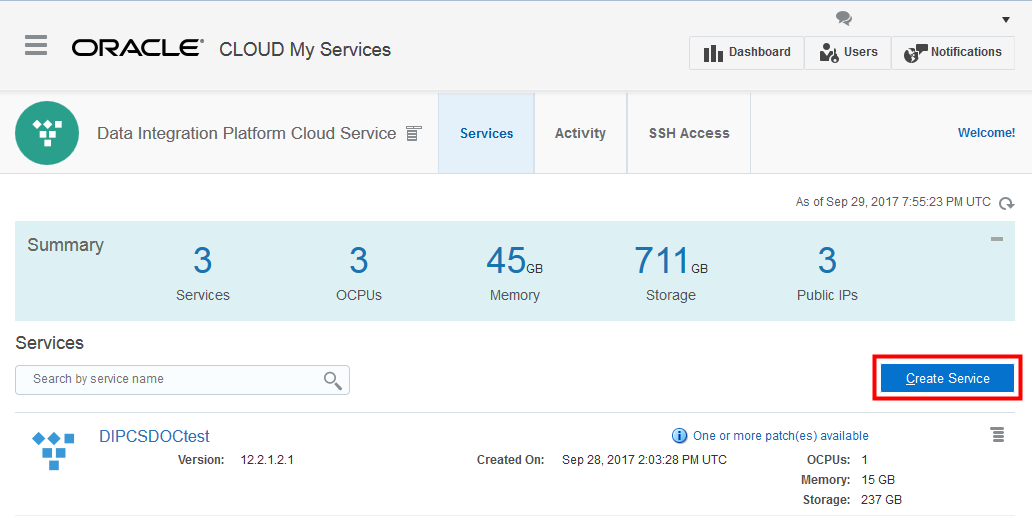
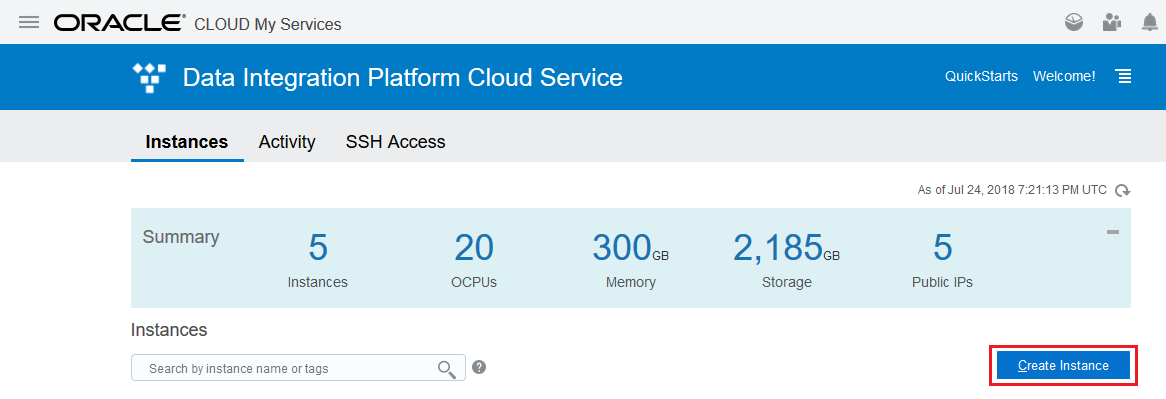
Rev Lab100

diff --git a/workshops/dipc/CloudWorkshop_DIPC_100.md b/workshops/dipc/CloudWorkshop_DIPC_100.md
@@ -24,15 +24,15 @@ For Data Integration Platform Cloud, you can select one of the following edition
 Your Oracle Cloud user name, password, and identity domain, which you should have received from Oracle
 
 -  An Oracle Cloud subscription with the following services:
-     1. Data Integration Platform Cloud Service
-     2. Database Cloud Service
-     3. Compute Classic Cloud Service
-     4. Storage Cloud Service
+    1. Data Integration Platform Cloud Service
+    2. Database Cloud Service
+    3. Compute Classic Cloud Service
+    4. Storage Cloud Service
 -  Cloud Dashboard URL
 -  Cloud Dashboard login credentials:
-     1. identity domain / account
-     2. username
-     3. password
+    1. identity domain / account
+    2. username
+    3. password
 
 -   Private keys in OpenSSH format for all instances 
 -   Public IP address for each workshop service instance
@@ -53,85 +53,78 @@ The above cloud services will be used to create:
 ## Logging Into Oracle Cloud Instance
 
 1. In your web browser, navigate to cloud.oracle.com, then click Sign in.
-2. Enter your user name and password, then click Sign In.
+2. Provide the cloud account: oscnas001 then <Enter>
+3. Provide your user name and password, then click Sign In.
 
 ![](images/100/image100_1.png)
 
-Click Services or Go to Console to access My Oracle Services.
+Click Services or Go to Dashboard to access My Oracle Services.
 
 ## Creating an Oracle Database Cloud Instance
 
-1. Locate Database in your list of services, then select Open Service Console from the Action menu.
+1. Locate Database in your list of services, then select "Open Service Console" from the Action menu.
 
 ![](images/100/image100_2.png)
 
-2. On the Services page, click Create Service. This launches the Create DBC instance wizard.
+2. On the Services page, click "Create Instance" button. This launches the Create DBC instance wizard.
 
 ![](images/100/image100_3.png)
 
-3. Complete the Service form as follows and then click Next:
-
-- Service Name: DBCSABC
-
-- Description: ABC Replication Database for Data Integration Platform Cloud
-
-- Notification Email: (a valid email address to receive provisioning status)
-
-- Region: No Preference
-
-- Software Release: Oracle Database 12c Release 1
-
-- Software Edition: Enterprise Edition
-
-- Database Type: Single Instance
+3. Complete the Service form as follows and then click "Next" button:
+    -  Instance Name: DBCSABC
+    - Description: ABC Replication Database for Data Integration Platform Cloud
+    - Notification Email: (a valid email address to receive provisioning status)
+    - Region: No Preference
+    - Software Release: Oracle Database 12c Release 1
+    - Software Edition: Enterprise Edition
+    - Database Type: Single Instance
 
 ![](images/100/image100_4.png)
 
 4. On the Service Details page, complete the Database Configuration fields as follows:
 
-- DB Name (SID): ORCL
-- Pluggable Database (PDB) name: PDB1
-- Administration Password and Confirm Password fields: Welcome_123#.
-- Usable Database Storage: 25
-- Based on your entry for Usable Database Storage, the Total Data File Storage (GB) field updates to reflect the amount of storage that will be allocated to your instance, including space for operating system and product binaries, supporting files, database data and configuration files, and so on. After you create the service instance, you can add more data storage as needed.
+    - DB Name (SID): ORCL
+    - Pluggable Database (PDB) name: PDB1
+    - Administration Password and Confirm Password fields: Welcome_123#
+    - Usable Database Storage: 25
+    - Total Data File Storage (GB) - Based on your entry of the previous field ( Usable Database Storage), this field will be updated to reflect the amount of storage that will be allocated to your instance; including space for operating system and product binaries, supporting files, database data and configuration files, and so on. After you create the service instance, you can add more data storage as needed. 
+    - Compute Shape: OC4
+    - Click Edit for SSH Public Key.
 
-- Compute Shape: OC4
-- Click Edit for SSH Public Key.
-- In the SSH Public Key for VM Access dialog, select Create a New Key, then click Enter.
+    In the SSH Public Key for VM Access dialog, select Create a New Key, then click Enter.
 
-![](images/100/image100_5.png)
+    ![](images/100/image100_5.png)
 
-Click Download in the Download Keys dialog box.
+    Click Download in the Download Keys dialog box.
 
-![](images/100/image100_6.png)
+    ![](images/100/image100_6.png)
 
-Save the sshkeybundle.zip file to your computer.
+    Save the sshkeybundle.zip file to your computer.
 
-![](images/100/image100_7.png)
+    ![](images/100/image100_7.png)
 
-Confirm that the SSH Public Key field now contains a public key value.
+    Confirm that the SSH Public Key field now contains a public key value.
 
 ![](images/100/image100_8.png)
 
 5. Expand Advanced Settings, and then complete the fields as follows:
-- Listener Port: 1521
-- Select your timezone from the Timezone menu.
-- Select Enable Oracle GoldenGate.
-- Deselect Include "Demos" PDB to save database space.
+    - Listener Port: 1521
+    - Select your timezone from the Timezone menu.
+    - Select "Enable Oracle GoldenGate".
+    - Deselect "Include 'Demos' PDB" to save database space.
 
 ![](images/100/image100_9.png)
 
-6. Complete the Backup and Recovery Configuration fields as follows, and then click Next:
-
-- Backup Destination: Both Cloud Storage and Local Storage
-- Cloud Storage Container: Enter the name of your storage container in the format, Storage-<identity domain name>/<container name>. For example, enter Storage-dipc/dipcABC.
-- Username: Enter your username for Oracle Storage Cloud
-- Password: Enter your password for Oracle Storage Cloud
-- Select Create Cloud Storage Container to create a new container.
+6. Complete the Backup and Recovery Configuration fields as follows, and then click "Next" button:
+    - Backup Destination: Both Cloud Storage and Local Storage
+    - Cloud Storage Container: Enter the name of your storage container in the format, Storage-**\<identity domain name>**/**\<container name>**. For example: https://oscnas001.us.storage.oraclecloud.com/v1/Storage-oscnas001/dbcs-TT.
+    - Username: Enter your username for Oracle Storage Cloud
+    - Password: Enter your password for Oracle Storage Cloud
+    - Select "Create Cloud Storage Container" to create a new container.
 
 ![](images/100/image100_10.png)
 
-7. Review the Service Details for your DBCS instance. If you need to make changes, click Previous or use the navigation train to go back. Otherwise, click CANCEL NOT Create! The instance creation process can take some time, you'll see, so we have alreadey created the instance in advance. Proceeed to the next section.
+7. Review the Service Details for your DBCS instance. If you need to make changes, click "Previous" or use the navigation train to go back. Otherwise, click **"CANCEL". Please DO NOT Create!**, the instance creation process can take some time; that is why we have already created the instances in advance. Proceeed to the next section.
 
 ## Creating an Oracle Data Integration Platform Cloud Instance
 
@@ -141,53 +134,51 @@ In this section, you create an Oracle Data Integration Platform Cloud instance u
 
 ![](images/100/image100_11.png)
 
-2. In the Services page, click Create Service.
+2. In the Services page, click "Create Instance".
 
 ![](images/100/image100_12.png)
 
-3. Complete the Service fields as follows, and hen click Next:
-- Service Name: DIPCABC
-- Description: Data Integration Platform Cloud for ABC instance
-- Email Address: (a valid email address to receive provisioning status)
-- Cluster Size: 2
-- Service Edition: Governance Edition
+3. Complete the Service fields as follows, and hen click "Next" button:
+    - Service Name: DIPCABC
+    - Description: Data Integration Platform Cloud for ABC instance
+    - Email Address: (a valid email address to receive provisioning status)
+    - Cluster Size: 2
+    - Service Edition: Governance Edition
 
 ![](images/100/image100_13.png)
 
 4. Complete the Database Configuration fields as follows:
 
-- Oracle Database Cloud Service Instance Name: DBCSABC
-- PDB Name: PDB1
-- Administration Username: SYS
-- Password: Welcome_123#
+    - Oracle Database Cloud Service Instance Name: DBCSABC
+    - PDB Name: PDB1
+    - Administration Username: SYS
+    - Password: Welcome_123#
 
 ![](images/100/image100_14.png)
 
 5. Complete the Backup and Recovery Configuration fields as follows:
 
-- Cloud Storage Container: Storage-dipc/dipcABC
-- Cloud Storage User Name: Enter your username for Oracle Storage Cloud
-- Cloud Storage Password: Enter your password for Oracle Storage Cloud
+    - Cloud Storage Container: Storage-dipc/dipcABC
+    - Cloud Storage User Name: Enter your username for Oracle Storage Cloud
+    - Cloud Storage Password: Enter your password for Oracle Storage Cloud
 
 ![](images/100/image100_15.png)
 
 6. Complete the Weblogic fields as follows:
 
-- Compute Shape: OC3m - 4.0 OCPU, 60.0GB RAM
-- SSH Public Key:
-a. Click Edit.
-b. In the SSH Public Key for VM Access dialog, select Create a New Key and then click Enter.
-c. In the Download Keys dialog, click Download and save your SSHkeybundle.zip to your local machine.
+    - Compute Shape: OC3m - 4.0 OCPU, 60.0GB RAM
+    - SSH Public Key:
+        
+        a. Click Edit.
+        
+        b. In the SSH Public Key for VM Access dialog, select Create a New Key and then click Enter.
 
-- Administrator Username: weblogic
+        c. In the Download Keys dialog, click Download and save your  "SSHkeybundle.zip" to your local machine.
 
-- Admin Password: Enter the admin password that you'll use later to login to all the consoles for this service instance, with the correspondent username you have had specified. For example welcome1
-
-- Confirm Admin Password: Reenter the admin password
+    - Administrator Username: weblogic
+    - Admin Password: Enter the admin password that you'll use later to login to all the consoles for this service instance, with the correspondent username you have had specified. For example welcome1
+    - Confirm Admin Password: Reenter the admin password
 
 ![](images/100/image100_16.png)
 
-7. Click Next and review your Data Integration Platform Cloud instance configuration details. If you need to make any changes, click Previous use the navigation train to go back. Otherwise, click CANCEL - we have already created the instance for you in advance.
-
-The instance creation process would normally take up to 30 minutes, so we have already created the instance in advance of the workshop.
-
+7. Click "Next" button and review your Data Integration Platform Cloud instance configuration details. If you need to make any changes, click "Previous" or use the navigation train to go back. Otherwise, click **"CANCEL". Please DO NOT Create!**, the instance creation process would normally take up to 30 minutes, so we have already created the instance in advance for the workshop.

diff --git a/workshops/dipc/CloudWorkshop_DIPC_Ap3.md b/workshops/dipc/CloudWorkshop_DIPC_Ap3.md
@@ -10,14 +10,14 @@ SQL developer can be used to verify data in sources and targets.
 ![](images/Ap3/imageAp3_20.png)
 
 3.	Provide the following information
-- Connection Name: WS SALES - SALES_SRC
-- Username: SALES_SRC
-- Password: Welcome#123
-- Save Password: SELECTED
-- Connector Type: Basic
-- Hostname: **<SRC_DB_IP_ADDRESS>**
-- Port: 1521
-- Service Name: **<SRC_DB_SERVICE_NAME>**
+>    - Connection Name: WS SALES - SALES_SRC
+>    - Username: SALES_SRC
+>    - Password: Welcome#123
+>    - Save Password: SELECTED
+>    - Connector Type: Basic
+>    - Hostname: **<SRC_DB_IP_ADDRESS>**
+>    - Port: 1521
+>    - Service Name: **<SRC_DB_SERVICE_NAME>**
 
 ![](images/Ap3/imageAp3_30.png)
 
@@ -31,22 +31,22 @@ SQL developer can be used to verify data in sources and targets.
 ## Additional Connections
 You will need to define the following connections:
 1. WS TARGET - DIPC_TGT
-- Connection Name: WS TARGET - DIPC_TGT
-- Username: DIPC_TGT
-- Password: Welcome#123
-- Save Password: SELECTED
-- Connector Type: Basic
-- Hostname: **<TRG_DB_IP_ADDRESS>**
-- Port: 1521
-- Service Name: **<TRG_DB_SERVICE_NAME>**
+>    - Connection Name: WS TARGET - DIPC_TGT
+>    - Username: DIPC_TGT
+>    - Password: Welcome#123
+>    - Save Password: SELECTED
+>    - Connector Type: Basic
+>    - Hostname: **<TRG_DB_IP_ADDRESS>**
+>    - Port: 1521
+>    - Service Name: **<TRG_DB_SERVICE_NAME>**
 
 
 2. WS TARGET - TRG_AGG_SALES
-- Connection Name: WS TARGET - TRG_AGG_SALES
-- Username: TRG_AGG_SALES
-- Password: Welcome#123
-- Save Password: SELECTED
-- Connector Type: Basic
-- Hostname: **<TRG_DB_IP_ADDRESS>**
-- Port: 1521
-- Service Name: **<TRG_DB_SERVICE_NAME>**
+>   - Connection Name: WS TARGET - TRG_AGG_SALES
+>   - Username: TRG_AGG_SALES
+>   - Password: Welcome#123
+>   - Save Password: SELECTED
+>   - Connector Type: Basic
+>   - Hostname: **<TRG_DB_IP_ADDRESS>**
+>   - Port: 1521
+>   - Service Name: **<TRG_DB_SERVICE_NAME>**

diff --git a/workshops/dipc/CloudWorkshop_DIPC_Ap1.md b/workshops/dipc/CloudWorkshop_DIPC_Ap1.md
@@ -8,14 +8,14 @@
  
 
 2.	In the screen provide the following information:
--  Host: **<SERVER_IP_ADDRESS>**
-- Saved Session: Provide a name 
+    -  Host: **<SERVER_IP_ADDRESS>**
+    - Saved Session: Provide a name 
 
 ![](images/Ap1/imageAp1_20.png)
  
 3.	Click on “Save” button
 4.	From the hierarchical panel on the left, select “Connection > Data” and provide the following information:
-- Auto-login username: opc
+    - Auto-login username: opc
 
 ![](images/Ap1/imageAp1_30.png)
 
@@ -28,8 +28,8 @@
  ![](images/Ap1/imageAp1_50.png)
 
 7.	From the hierarchical panel on the left, select “Connection > SSH > Tunnels” and provide the following information:
-- Source port: 6905
-- Destination: **<SERVER_IP_ADDRESS>**:5901
+    - Source port: 6905
+    - Destination: **<SERVER_IP_ADDRESS>**:5901
 8.	Click on “Add” button
 
  ![](images/Ap1/imageAp1_60.png)

diff --git a/workshops/dipc/CloudWorkshop_DIPC_Ap2.md b/workshops/dipc/CloudWorkshop_DIPC_Ap2.md
@@ -10,9 +10,9 @@
 ![](images/Ap2/imageAp2_20.png)
 
 3.	Provide the following information:
-- VNC Server: localhost:6905
-- Name: provide ANY name you want to assign to this session
-- All other values: defaults
+    - VNC Server: localhost:6905
+    - Name: provide ANY name you want to assign to this session
+    - All other values: defaults
 
 ![](images/Ap2/imageAp2_30.png)
 
